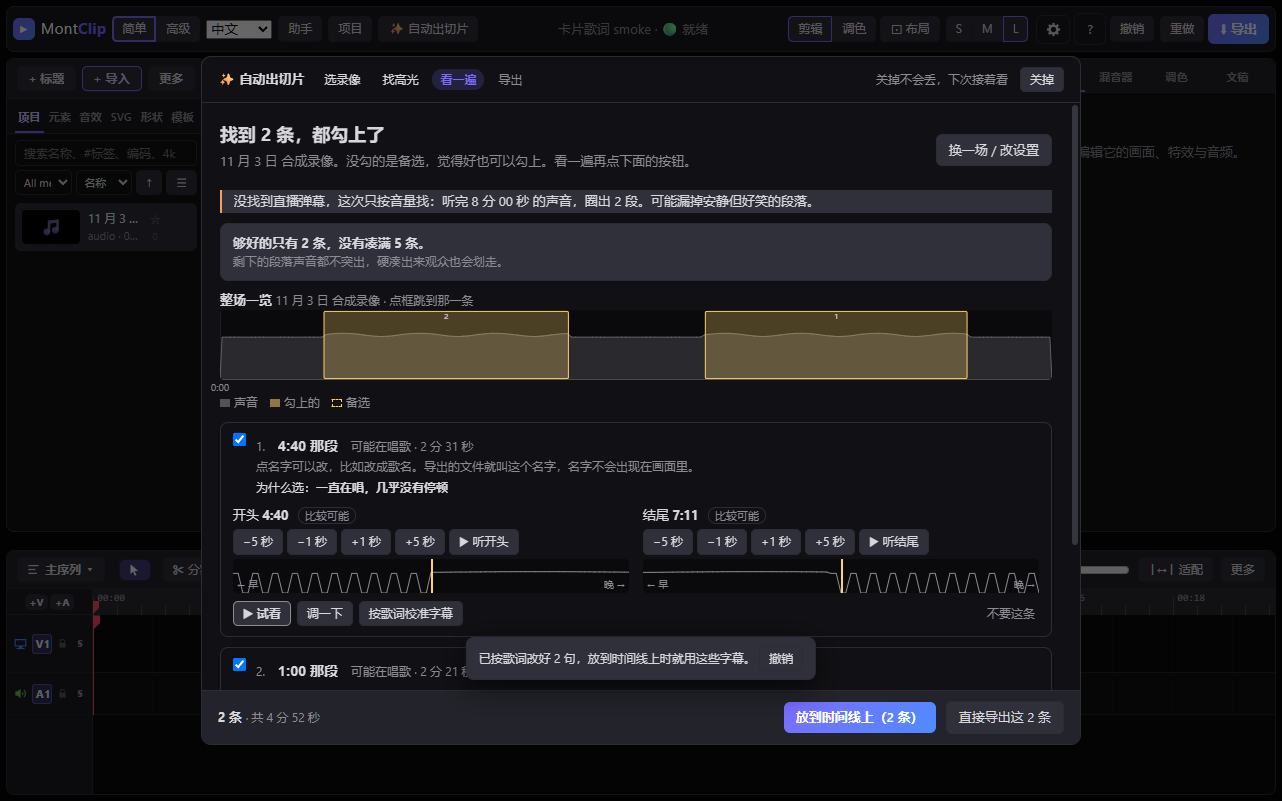
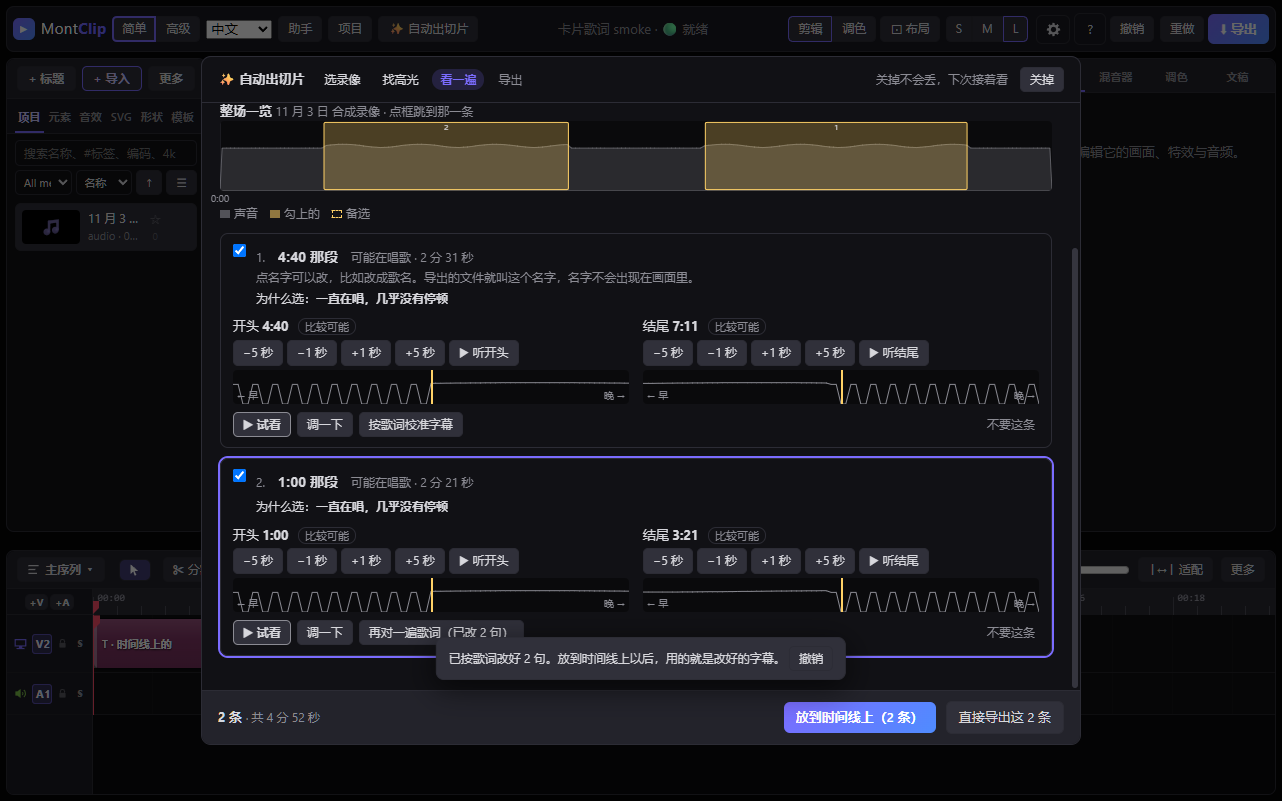
fix(slices): VV on #100 d545221 — after applying or undoing a card's calibration the focus is the card's own lyrics button (autoLyricFocus: #89's autoFocusCard scrolls it into view and flashes it), so Ctrl+Z stays with the dialog; calibrated, the tooltip says so (own.as-lyrics-again-title, placehold
Assisted-by: Cindy (https://cindy.app)

Changed region(s): [[0.0624, 0.1248, 0.8424, 0.8739]]

diff --git a/app.js b/app.js
@@ -7068,7 +7068,7 @@ function openLyricsAlign() {
 /** The lyrics dialog, shared by the Transcript tab (openLyricsAlign) and a 自动出切片 card (autoLyricsOpen): words and
  *  caps as MontClipLyrics.scope gives them; stale() says the target changed since it opened (then nothing is applied);
  *  onApply(plan) makes the change. Nothing changes before 〔应用勾选的〕 / 〔全部应用〕. */
-function lyricsDialog({ words, caps, stale, onApply }) {
+function lyricsDialog({ words, caps, stale, onApply, text = "" }) {
   const t = { words, caps };
   const say = (k, v) => escapeHtml(uiText("own." + k, v));
   const dialog = document.createElement("dialog");
@@ -7119,12 +7119,14 @@ function lyricsDialog({ words, caps, stale, onApply }) {
     if (stale()) { summary.textContent = uiText("own.ly-changed"); return; }
     const p = MontClipLyrics.plan(result, picked, t.caps);
     if (!p.cues.length) return;
+    const pasted = dialog.querySelector("[data-ly-text]").value;
     dialog.close();
-    onApply(p);
+    onApply(p, pasted);
   };
   dialog.querySelector("[data-ly-apply]").addEventListener("click", () => apply(ticked()));
   dialog.querySelector("[data-ly-apply-all]").addEventListener("click", () => apply(allSure()));
   dialog.addEventListener("close", () => dialog.remove());
+  if (text) dialog.querySelector("[data-ly-text]").value = text;
   document.body.append(dialog); dialog.showModal(); dialog.querySelector("[data-ly-text]").focus();
 }
 function captionQuickHtml(scope) {
@@ -10649,23 +10651,33 @@ function autoLyricWords(c) {
   const m = autoMedia(c.mediaId), d = m && typeof transcriptOf === "function" ? transcriptOf(m.src) : null;
   return d ? MontClipAutoSlices.lyricScope(d.words, c).words : [];
 }
+/** After calibrating, or undoing it (VV on #100): the card in view and flashed (#89's autoFocusCard), and the focus on its own
+ *  lyrics button — inside the dialog, so Ctrl+Z reaches the dialog and never the timeline behind it. */
+function autoLyricFocus(id) {
+  autoFocusCard(id);
+  const b = AUTO.el && AUTO.el.querySelector(`[data-as-card="${CSS.escape(id)}"] [data-as-act="lyrics"]`);
+  if (b) b.focus({ preventScroll: true });
+}
 function autoLyricsAvailable(c) {
   return !!c && c.kind === "song" && autoLyricWords(c).length > 0;
 }
 /** 〔按歌词校准字幕〕 on a card: the lyrics dialog over the part of the recording the card covers; applied, the lines are
  *  kept on the card (c.lyricCues, recording seconds — in this window only, like the card) in one step that 〔撤销〕 / Ctrl+Z
- *  takes back, and they are the captions of the card when it is placed (autoPlaceCaptions). The timeline does not change. */
+ *  takes back, and they are the captions of the card when it is placed (autoPlaceCaptions). The timeline does not change.
+ *  The lyrics pasted are kept on the card too (c.lyricText, this window only: never in the project file, a record or
+ *  anything sent), so 〔再对一遍歌词〕 opens with them (VV on #100). */
 function autoLyricsOpen(c) {
   const sc = MontClipAutoSlices.lyricScope(autoLyricWords(c), c);
   if (!sc.words.length) { autoToast(uiText("own.ly-no-words"), false); return; }
   const at = JSON.stringify([c.id, c.s, c.e]);
-  lyricsDialog({ words: sc.words, caps: sc.caps, stale: () => { const x = autoClip(c.id); return !x || JSON.stringify([x.id, x.s, x.e]) !== at; }, onApply: (p) => {
+  lyricsDialog({ words: sc.words, caps: sc.caps, text: c.lyricText || "", stale: () => { const x = autoClip(c.id); return !x || JSON.stringify([x.id, x.s, x.e]) !== at; }, onApply: (p, text) => {
     const card = autoClip(c.id);
     if (!card) return;
     autoSnap();
     card.lyricCues = p.cues.map(({ start, end, text, words, lyrics }) => ({ start, end, text, words, lyrics }));
     card.lyricN = p.cues.filter((q) => q.lyrics).length;
-    autoRender("review"); autoToast(uiText("own.as-lyrics-done", { n: card.lyricN }));
+    card.lyricText = text;
+    autoRender("review"); autoLyricFocus(card.id); autoToast(uiText("own.as-lyrics-done", { n: card.lyricN }));
   } });
 }
 function autoCardHtml(c, i) {
@@ -10681,7 +10693,7 @@ function autoCardHtml(c, i) {
     ${c.on ? `<div class="as-trim">${autoEdgeHtml(c, "s")}${autoEdgeHtml(c, "e")}</div>` : `<p class="as-small">${autoSay("as-tick-to-adjust")}</p>`}
     <div class="as-actions"><button type="button" class="btn tiny as-play" data-as-act="play">${autoSay("as-play")}</button>
       <button type="button" class="btn tiny" data-as-act="fine">${autoSay("as-fine")}</button>
-      ${song && autoLyricsAvailable(c) ? `<button type="button" class="btn tiny" data-as-act="lyrics" data-as-lyrics${subs ? " data-as-sub-line" : ""} title="${[subs, autoSongKey("as-lyrics") !== "as-lyrics" ? autoSay(autoSongKey("as-lyrics")) : ""].filter(Boolean).join("\n")}">${c.lyricCues ? autoSay("as-lyrics-again", { n: c.lyricN || 0 }) : autoSay("as-lyrics")}</button>` : ""}
+      ${song && autoLyricsAvailable(c) ? `<button type="button" class="btn tiny" data-as-act="lyrics" data-as-lyrics${subs ? " data-as-sub-line" : ""} title="${c.lyricCues ? autoSay("as-lyrics-again-title", { n: c.lyricN || 0 }) : [subs, autoSongKey("as-lyrics") !== "as-lyrics" ? autoSay(autoSongKey("as-lyrics")) : ""].filter(Boolean).join("\n")}">${c.lyricCues ? autoSay("as-lyrics-again", { n: c.lyricN || 0 }) : autoSay("as-lyrics")}</button>` : ""}
       <button type="button" class="as-drop" data-as-act="drop">${autoSay("as-drop")}</button></div></article>`;
 }
 function autoFooter() {
@@ -10700,8 +10712,12 @@ function autoSnap() { const st = autoState(); st.hist.push(JSON.stringify({ clip
 function autoUndo() {
   const st = autoState();
   if (st.step !== "review" || !st.hist.length) return;
+  const lyr = (cs) => new Map(cs.map((c) => [c.id, JSON.stringify(c.lyricCues || null)]));
+  const was = lyr(st.clips);
   const o = JSON.parse(st.hist.pop()); st.clips = o.clips; st.dropped = o.dropped;
   autoRender("review"); autoToast(uiText("own.as-undone"), false);
+  const back = st.clips.find((c) => was.has(c.id) && was.get(c.id) !== JSON.stringify(c.lyricCues || null));
+  if (back) autoLyricFocus(back.id);
 }
 let autoToastTimer = null;
 function autoToast(msg, undoable = true) {

diff --git a/docs/demo/app.js b/docs/demo/app.js
@@ -7068,7 +7068,7 @@ function openLyricsAlign() {
 /** The lyrics dialog, shared by the Transcript tab (openLyricsAlign) and a 自动出切片 card (autoLyricsOpen): words and
  *  caps as MontClipLyrics.scope gives them; stale() says the target changed since it opened (then nothing is applied);
  *  onApply(plan) makes the change. Nothing changes before 〔应用勾选的〕 / 〔全部应用〕. */
-function lyricsDialog({ words, caps, stale, onApply }) {
+function lyricsDialog({ words, caps, stale, onApply, text = "" }) {
   const t = { words, caps };
   const say = (k, v) => escapeHtml(uiText("own." + k, v));
   const dialog = document.createElement("dialog");
@@ -7119,12 +7119,14 @@ function lyricsDialog({ words, caps, stale, onApply }) {
     if (stale()) { summary.textContent = uiText("own.ly-changed"); return; }
     const p = MontClipLyrics.plan(result, picked, t.caps);
     if (!p.cues.length) return;
+    const pasted = dialog.querySelector("[data-ly-text]").value;
     dialog.close();
-    onApply(p);
+    onApply(p, pasted);
   };
   dialog.querySelector("[data-ly-apply]").addEventListener("click", () => apply(ticked()));
   dialog.querySelector("[data-ly-apply-all]").addEventListener("click", () => apply(allSure()));
   dialog.addEventListener("close", () => dialog.remove());
+  if (text) dialog.querySelector("[data-ly-text]").value = text;
   document.body.append(dialog); dialog.showModal(); dialog.querySelector("[data-ly-text]").focus();
 }
 function captionQuickHtml(scope) {
@@ -10649,23 +10651,33 @@ function autoLyricWords(c) {
   const m = autoMedia(c.mediaId), d = m && typeof transcriptOf === "function" ? transcriptOf(m.src) : null;
   return d ? MontClipAutoSlices.lyricScope(d.words, c).words : [];
 }
+/** After calibrating, or undoing it (VV on #100): the card in view and flashed (#89's autoFocusCard), and the focus on its own
+ *  lyrics button — inside the dialog, so Ctrl+Z reaches the dialog and never the timeline behind it. */
+function autoLyricFocus(id) {
+  autoFocusCard(id);
+  const b = AUTO.el && AUTO.el.querySelector(`[data-as-card="${CSS.escape(id)}"] [data-as-act="lyrics"]`);
+  if (b) b.focus({ preventScroll: true });
+}
 function autoLyricsAvailable(c) {
   return !!c && c.kind === "song" && autoLyricWords(c).length > 0;
 }
 /** 〔按歌词校准字幕〕 on a card: the lyrics dialog over the part of the recording the card covers; applied, the lines are
  *  kept on the card (c.lyricCues, recording seconds — in this window only, like the card) in one step that 〔撤销〕 / Ctrl+Z
- *  takes back, and they are the captions of the card when it is placed (autoPlaceCaptions). The timeline does not change. */
+ *  takes back, and they are the captions of the card when it is placed (autoPlaceCaptions). The timeline does not change.
+ *  The lyrics pasted are kept on the card too (c.lyricText, this window only: never in the project file, a record or
+ *  anything sent), so 〔再对一遍歌词〕 opens with them (VV on #100). */
 function autoLyricsOpen(c) {
   const sc = MontClipAutoSlices.lyricScope(autoLyricWords(c), c);
   if (!sc.words.length) { autoToast(uiText("own.ly-no-words"), false); return; }
   const at = JSON.stringify([c.id, c.s, c.e]);
-  lyricsDialog({ words: sc.words, caps: sc.caps, stale: () => { const x = autoClip(c.id); return !x || JSON.stringify([x.id, x.s, x.e]) !== at; }, onApply: (p) => {
+  lyricsDialog({ words: sc.words, caps: sc.caps, text: c.lyricText || "", stale: () => { const x = autoClip(c.id); return !x || JSON.stringify([x.id, x.s, x.e]) !== at; }, onApply: (p, text) => {
     const card = autoClip(c.id);
     if (!card) return;
     autoSnap();
     card.lyricCues = p.cues.map(({ start, end, text, words, lyrics }) => ({ start, end, text, words, lyrics }));
     card.lyricN = p.cues.filter((q) => q.lyrics).length;
-    autoRender("review"); autoToast(uiText("own.as-lyrics-done", { n: card.lyricN }));
+    card.lyricText = text;
+    autoRender("review"); autoLyricFocus(card.id); autoToast(uiText("own.as-lyrics-done", { n: card.lyricN }));
   } });
 }
 function autoCardHtml(c, i) {
@@ -10681,7 +10693,7 @@ function autoCardHtml(c, i) {
     ${c.on ? `<div class="as-trim">${autoEdgeHtml(c, "s")}${autoEdgeHtml(c, "e")}</div>` : `<p class="as-small">${autoSay("as-tick-to-adjust")}</p>`}
     <div class="as-actions"><button type="button" class="btn tiny as-play" data-as-act="play">${autoSay("as-play")}</button>
       <button type="button" class="btn tiny" data-as-act="fine">${autoSay("as-fine")}</button>
-      ${song && autoLyricsAvailable(c) ? `<button type="button" class="btn tiny" data-as-act="lyrics" data-as-lyrics${subs ? " data-as-sub-line" : ""} title="${[subs, autoSongKey("as-lyrics") !== "as-lyrics" ? autoSay(autoSongKey("as-lyrics")) : ""].filter(Boolean).join("\n")}">${c.lyricCues ? autoSay("as-lyrics-again", { n: c.lyricN || 0 }) : autoSay("as-lyrics")}</button>` : ""}
+      ${song && autoLyricsAvailable(c) ? `<button type="button" class="btn tiny" data-as-act="lyrics" data-as-lyrics${subs ? " data-as-sub-line" : ""} title="${c.lyricCues ? autoSay("as-lyrics-again-title", { n: c.lyricN || 0 }) : [subs, autoSongKey("as-lyrics") !== "as-lyrics" ? autoSay(autoSongKey("as-lyrics")) : ""].filter(Boolean).join("\n")}">${c.lyricCues ? autoSay("as-lyrics-again", { n: c.lyricN || 0 }) : autoSay("as-lyrics")}</button>` : ""}
       <button type="button" class="as-drop" data-as-act="drop">${autoSay("as-drop")}</button></div></article>`;
 }
 function autoFooter() {
@@ -10700,8 +10712,12 @@ function autoSnap() { const st = autoState(); st.hist.push(JSON.stringify({ clip
 function autoUndo() {
   const st = autoState();
   if (st.step !== "review" || !st.hist.length) return;
+  const lyr = (cs) => new Map(cs.map((c) => [c.id, JSON.stringify(c.lyricCues || null)]));
+  const was = lyr(st.clips);
   const o = JSON.parse(st.hist.pop()); st.clips = o.clips; st.dropped = o.dropped;
   autoRender("review"); autoToast(uiText("own.as-undone"), false);
+  const back = st.clips.find((c) => was.has(c.id) && was.get(c.id) !== JSON.stringify(c.lyricCues || null));
+  if (back) autoLyricFocus(back.id);
 }
 let autoToastTimer = null;
 function autoToast(msg, undoable = true) {

diff --git a/ui-preferences.js b/ui-preferences.js
@@ -348,6 +348,8 @@
     "as-tag-likely": ["Fairly likely", "比较可能"],
     "as-tag-adjusted": ["You adjusted it", "你调过"],
     // the card's button once calibrated (v12's words; a placeholder key until JJ words it)
+    // the tooltip of 〔再对一遍歌词〕 once calibrated (a placeholder key until JJ words it)
+    "as-lyrics-again-title": ["{n} lines corrected from the lyrics. Matching again starts from the lyrics you pasted last time.", "已按歌词改好 {n} 句。再对一遍时会带上上次贴的歌词。"],
     "as-lyrics-again": ["Match the lyrics again ({n} changed)", "再对一遍歌词（已改 {n} 句）"],
     // the card calibrated: nothing on the timeline yet (JJ's words, on #100)
     "as-lyrics-done": ["Corrected {n} lines from the lyrics. Once this part is on the timeline, these subtitles are used.", "已按歌词改好 {n} 句。放到时间线上以后，用的就是改好的字幕。"],

diff --git a/test/lyrics-ui.test.js b/test/lyrics-ui.test.js
@@ -15,7 +15,7 @@ test('nothing changes before 〔应用〕; then one undo step, after a CAS on th
  const app=read('app.js'),k=app.indexOf('function lyricsDialog('),dlg=app.slice(k,app.indexOf('function captionQuickHtml',k));
  a.ok(!/project\.clips\s*=|pushUndo\(|autoSnap\(/.test(dlg),'the dialog itself changes nothing');
  const apply=dlg.slice(dlg.indexOf('const apply ='));
- a.match(apply,/if \(stale\(\)\) \{ summary\.textContent = uiText\("own\.ly-changed"\); return; \}[\s\S]*onApply\(p\);/);
+ a.match(apply,/if \(stale\(\)\) \{ summary\.textContent = uiText\("own\.ly-changed"\); return; \}[\s\S]*onApply\(p, pasted\);/);
  // the Transcript tab: the CAS is the whole project; its change is one undo step, inside onApply
  const i=app.indexOf('function openLyricsAlign'),body=app.slice(i,k);
  a.match(body,/const signature = JSON\.stringify\(projectJSON\(\)\);/);

diff --git a/docs/decisions/2026-11-03-card-lyrics.md b/docs/decisions/2026-11-03-card-lyrics.md
@@ -25,3 +25,9 @@
 - 卡片上的校准结果不会改逐字稿，也不会影响别的卡。
 - 一张卡放两次时，两次都用同一份 `lyricCues`。
 - 变速片段：卡片放上时间线时速度总是 1，所以没有处理变速。
+
+## VV 实窗复看 d545221 后补的（2026-11-03）
+
+- 应用之后、撤销之后，焦点都放在这张卡自己的歌词按钮上，焦点始终在弹窗里。这样 Ctrl+Z 由弹窗处理，不会落到后面时间线的快捷键上。卡片会滚进可视区并短暂高亮，复用 #89 的 `autoFocusCard`。
+- 校准之后，按钮的提示改成占位 key `own.as-lyrics-again-title`，文案请 JJ 定，不再显示「是听写出来的，可能有错字」。
+- 这次粘贴的歌词存在卡片上（`c.lyricText`），点〔再对一遍歌词〕时会自动带进去。和 `lyricCues` 一样只存在当前窗口里：不写进项目文件，不进任何记录，也不发给 AI。测试锁住了这一点。
